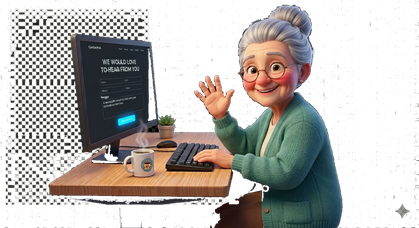
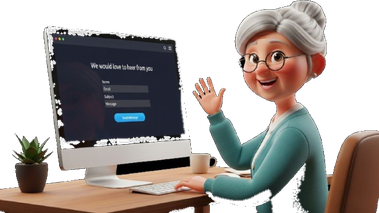
contact form

diff --git a/src/app/contact/ContactClient.tsx b/src/app/contact/ContactClient.tsx
@@ -626,85 +626,152 @@ export default function ContactPage() {
             </ol>
           </nav>
 
-          {/* ── Character + Welcome Banner ── */}
-          <motion.div
-            initial={{ opacity: 0, y: 30 }}
-            whileInView={{ opacity: 1, y: 0 }}
-            viewport={{ once: true }}
-            transition={{ duration: 0.8 }}
-            className="relative flex flex-col sm:flex-row items-center gap-4 sm:gap-8 mb-8 py-4"
-          >
-            {/* Character image — floating */}
+          {/* ── CREATIVE LAYOUT: Character with REAL form inside her monitor ── */}
+          <div id="contact-form" className="scroll-mt-28 pt-8">
+            {/* Section heading */}
             <motion.div
-              animate={{ y: [0, -10, 0, -6, 0] }}
-              transition={{ duration: 7, repeat: Infinity, ease: "easeInOut" }}
-              className="relative w-[240px] sm:w-[300px] lg:w-[380px] shrink-0"
+              initial={{ opacity: 0, y: 20 }}
+              whileInView={{ opacity: 1, y: 0 }}
+              viewport={{ once: true }}
+              className="text-center mb-10"
             >
-              {/* Soft glow behind */}
-              <div className="absolute inset-0 flex items-center justify-center pointer-events-none">
-                <div className="w-[80%] h-[80%] rounded-full opacity-20"
-                  style={{ background: "radial-gradient(circle, rgba(13,148,136,0.4) 0%, rgba(99,102,241,0.2) 50%, transparent 70%)" }} />
-              </div>
-
-              <picture>
-                <source media="(max-width: 640px)" srcSet="/contact-character-mobile.webp" type="image/webp" />
-                <source media="(max-width: 640px)" srcSet="/contact-character-mobile.png" type="image/png" />
-                <source media="(max-width: 1024px)" srcSet="/contact-character-tablet.webp" type="image/webp" />
-                <source media="(max-width: 1024px)" srcSet="/contact-character-tablet.png" type="image/png" />
-                <source srcSet="/contact-character-desktop.webp" type="image/webp" />
-                <Image
-                  src="/contact-character-desktop.png"
-                  alt="Friendly woman waving hello at the Setwise Digital contact form on her computer"
-                  width={900}
-                  height={488}
-                  priority
-                  className="relative z-10 w-full h-auto select-none"
-                  style={{ filter: "drop-shadow(0 12px 30px rgba(13,148,136,0.15))" }}
-                  draggable={false}
-                />
-              </picture>
-
-              {/* Sparkles */}
-              {[
-                { x: "5%", y: "10%", del: 0 },
-                { x: "90%", y: "15%", del: 1.5 },
-                { x: "85%", y: "75%", del: 0.8 },
-                { x: "10%", y: "80%", del: 2 },
-              ].map((sp, i) => (
-                <motion.div key={i}
-                  className="absolute w-[3px] h-[3px] rounded-full bg-blue-400"
-                  style={{ left: sp.x, top: sp.y }}
-                  animate={{ opacity: [0, 0.7, 0], scale: [0.5, 1.2, 0.5] }}
-                  transition={{ duration: 2.5, delay: sp.del, repeat: Infinity, ease: "easeInOut" }}
-                />
-              ))}
-            </motion.div>
-
-            {/* Welcome text + arrow pointing to form */}
-            <div className="text-center sm:text-left flex-1">
               <motion.div
-                animate={{ x: [0, 5, 0] }}
-                transition={{ duration: 2, repeat: Infinity, ease: "easeInOut" }}
-                className="inline-flex items-center gap-2 px-4 py-2 bg-blue-50 border border-blue-100 rounded-full mb-4"
+                animate={{ x: [0, 4, 0] }}
+                transition={{ duration: 2.5, repeat: Infinity, ease: "easeInOut" }}
+                className="inline-flex items-center gap-2 px-4 py-2 bg-blue-50 border border-blue-100 rounded-full mb-5"
               >
                 <HeartHandshake size={16} className="text-blue-600" />
                 <span className="text-blue-700 font-bold text-sm">She&apos;s already reaching out — your turn!</span>
               </motion.div>
-              <p className="text-zinc-500 font-medium text-base leading-relaxed max-w-md">
-                Fill out the form below and we&apos;ll get back to you within 24 hours. No tech jargon — just friendly help.
+              <h2 className="text-4xl sm:text-5xl font-black tracking-tight mb-4 text-zinc-900 leading-tight">
+                We&apos;re Here <span className="text-blue-600">to Help You.</span>
+              </h2>
+              <p className="text-lg text-zinc-500 font-medium max-w-2xl mx-auto">
+                Fill out the form on her screen — or scroll down to use the full version. We&apos;ll respond within 24 hours.
               </p>
-              <motion.div
-                animate={{ y: [0, 6, 0] }}
-                transition={{ duration: 1.5, repeat: Infinity, ease: "easeInOut" }}
-                className="mt-4 hidden sm:block"
-              >
-                <ChevronDown size={24} className="text-blue-400 mx-auto sm:mx-0" />
-              </motion.div>
-            </div>
-          </motion.div>
+            </motion.div>
 
-          {/* ── Two-column: Info + 3D Form ── */}
-          <div id="contact-form" className="scroll-mt-28 grid grid-cols-1 lg:grid-cols-2 gap-12 lg:gap-16 items-start pt-8">
+            {/* ── The Character + Form-in-Monitor Composition ── */}
+            <motion.div
+              initial={{ opacity: 0, y: 30 }}
+              whileInView={{ opacity: 1, y: 0 }}
+              viewport={{ once: true }}
+              transition={{ duration: 0.8 }}
+              className="relative max-w-5xl mx-auto mb-16"
+            >
+              {/* Character image container — floating gently */}
+              <motion.div
+                animate={{ y: [0, -8, 0, -5, 0] }}
+                transition={{ duration: 7, repeat: Infinity, ease: "easeInOut" }}
+                className="relative"
+              >
+                {/* Glow behind */}
+                <div className="absolute top-[10%] left-[5%] w-[50%] h-[70%] rounded-full opacity-15 pointer-events-none"
+                  style={{ background: "radial-gradient(circle, rgba(59,130,246,0.4) 0%, rgba(139,92,246,0.2) 50%, transparent 70%)" }} />
+
+                {/* The character image */}
+                <picture>
+                  <source media="(max-width: 640px)" srcSet="/contact-character-mobile.webp" type="image/webp" />
+                  <source media="(max-width: 640px)" srcSet="/contact-character-mobile.png" type="image/png" />
+                  <source media="(max-width: 1024px)" srcSet="/contact-character-tablet.webp" type="image/webp" />
+                  <source media="(max-width: 1024px)" srcSet="/contact-character-tablet.png" type="image/png" />
+                  <source srcSet="/contact-character-desktop.webp" type="image/webp" />
+                  <Image
+                    src="/contact-character-desktop.png"
+                    alt="Friendly woman waving hello at the Setwise Digital contact form on her computer"
+                    width={800}
+                    height={449}
+                    priority
+                    className="w-full h-auto select-none relative z-[1]"
+                    style={{ filter: "drop-shadow(0 16px 40px rgba(13,148,136,0.12))" }}
+                    draggable={false}
+                  />
+                </picture>
+
+                {/* ═══ REAL WORKING FORM overlaid exactly on the monitor screen ═══ */}
+                <div className="absolute z-[2] overflow-hidden rounded-sm hidden sm:block"
+                  style={{ left: "13.5%", top: "18%", width: "34%", height: "47%" }}>
+                  <div className="w-full h-full bg-gradient-to-b from-[#1a1f3a] to-[#151930] flex flex-col p-[5%] gap-[3%]"
+                    style={{ fontSize: "clamp(6px, 1.1vw, 12px)" }}>
+                    {/* Mini header */}
+                    <div className="text-center">
+                      <p style={{ fontSize: "clamp(5px, 0.8vw, 9px)", letterSpacing: "0.1em", textTransform: "uppercase" }} className="text-blue-300/70 font-bold mb-[2%]">Contact Us</p>
+                      <p className="text-white font-black leading-tight" style={{ fontSize: "clamp(8px, 1.4vw, 16px)" }}>
+                        We&apos;d love to<br />hear from you
+                      </p>
+                    </div>
+
+                    {/* Form fields — actually functional */}
+                    <div className="flex gap-[3%]">
+                      <input
+                        type="text"
+                        placeholder="Name"
+                        className="flex-1 bg-white/8 border border-white/15 rounded px-[4%] text-white placeholder-white/40 outline-none focus:border-blue-400/60 transition-colors"
+                        style={{ fontSize: "inherit", height: "clamp(14px, 2.5vw, 28px)" }}
+                      />
+                      <input
+                        type="email"
+                        placeholder="Email"
+                        className="flex-1 bg-white/8 border border-white/15 rounded px-[4%] text-white placeholder-white/40 outline-none focus:border-blue-400/60 transition-colors"
+                        style={{ fontSize: "inherit", height: "clamp(14px, 2.5vw, 28px)" }}
+                      />
+                    </div>
+                    <input
+                      type="text"
+                      placeholder="Subject — e.g. Printer Setup Help"
+                      className="w-full bg-white/8 border border-white/15 rounded px-[4%] text-white placeholder-white/40 outline-none focus:border-blue-400/60 transition-colors"
+                      style={{ fontSize: "inherit", height: "clamp(14px, 2.5vw, 28px)" }}
+                    />
+                    <textarea
+                      placeholder="Your message..."
+                      className="flex-1 w-full bg-white/8 border border-white/15 rounded px-[4%] py-[3%] text-white placeholder-white/40 outline-none focus:border-blue-400/60 transition-colors resize-none"
+                      style={{ fontSize: "inherit", minHeight: "clamp(20px, 4vw, 50px)" }}
+                    />
+                    <button className="w-full bg-blue-500 hover:bg-blue-400 text-white font-bold rounded transition-colors flex items-center justify-center gap-[4%]"
+                      style={{ fontSize: "inherit", height: "clamp(16px, 2.5vw, 30px)" }}
+                      onClick={() => {
+                        const formEl = document.getElementById("full-contact-form");
+                        if (formEl) formEl.scrollIntoView({ behavior: "smooth" });
+                      }}
+                    >
+                      <Send style={{ width: "clamp(6px, 1vw, 12px)", height: "clamp(6px, 1vw, 12px)" }} />
+                      Send Message
+                    </button>
+                  </div>
+                </div>
+
+                {/* Sparkles around the character */}
+                {[
+                  { x: "55%", y: "8%", del: 0 },
+                  { x: "92%", y: "20%", del: 1 },
+                  { x: "88%", y: "65%", del: 2 },
+                  { x: "3%", y: "50%", del: 1.5 },
+                  { x: "60%", y: "85%", del: 0.5 },
+                ].map((sp, i) => (
+                  <motion.div key={i}
+                    className="absolute w-[3px] h-[3px] rounded-full bg-blue-400 z-[3]"
+                    style={{ left: sp.x, top: sp.y }}
+                    animate={{ opacity: [0, 0.7, 0], scale: [0.5, 1.3, 0.5] }}
+                    transition={{ duration: 2.5, delay: sp.del, repeat: Infinity, ease: "easeInOut" }}
+                  />
+                ))}
+              </motion.div>
+
+              {/* Mobile-only: message to scroll to full form */}
+              <div className="sm:hidden text-center mt-4">
+                <motion.div
+                  animate={{ y: [0, 5, 0] }}
+                  transition={{ duration: 1.5, repeat: Infinity, ease: "easeInOut" }}
+                >
+                  <a href="#full-contact-form" className="inline-flex items-center gap-2 text-blue-600 font-bold text-sm">
+                    <ChevronDown size={18} /> Scroll to fill the form
+                  </a>
+                </motion.div>
+              </div>
+            </motion.div>
+
+            {/* ── Full-size form below (always accessible, especially for mobile) ── */}
+            <div id="full-contact-form" className="grid grid-cols-1 lg:grid-cols-2 gap-12 lg:gap-16 items-start">
             {/* ═══ Left Side ═══ */}
             <motion.div
               initial={{ opacity: 0, x: -40 }}
